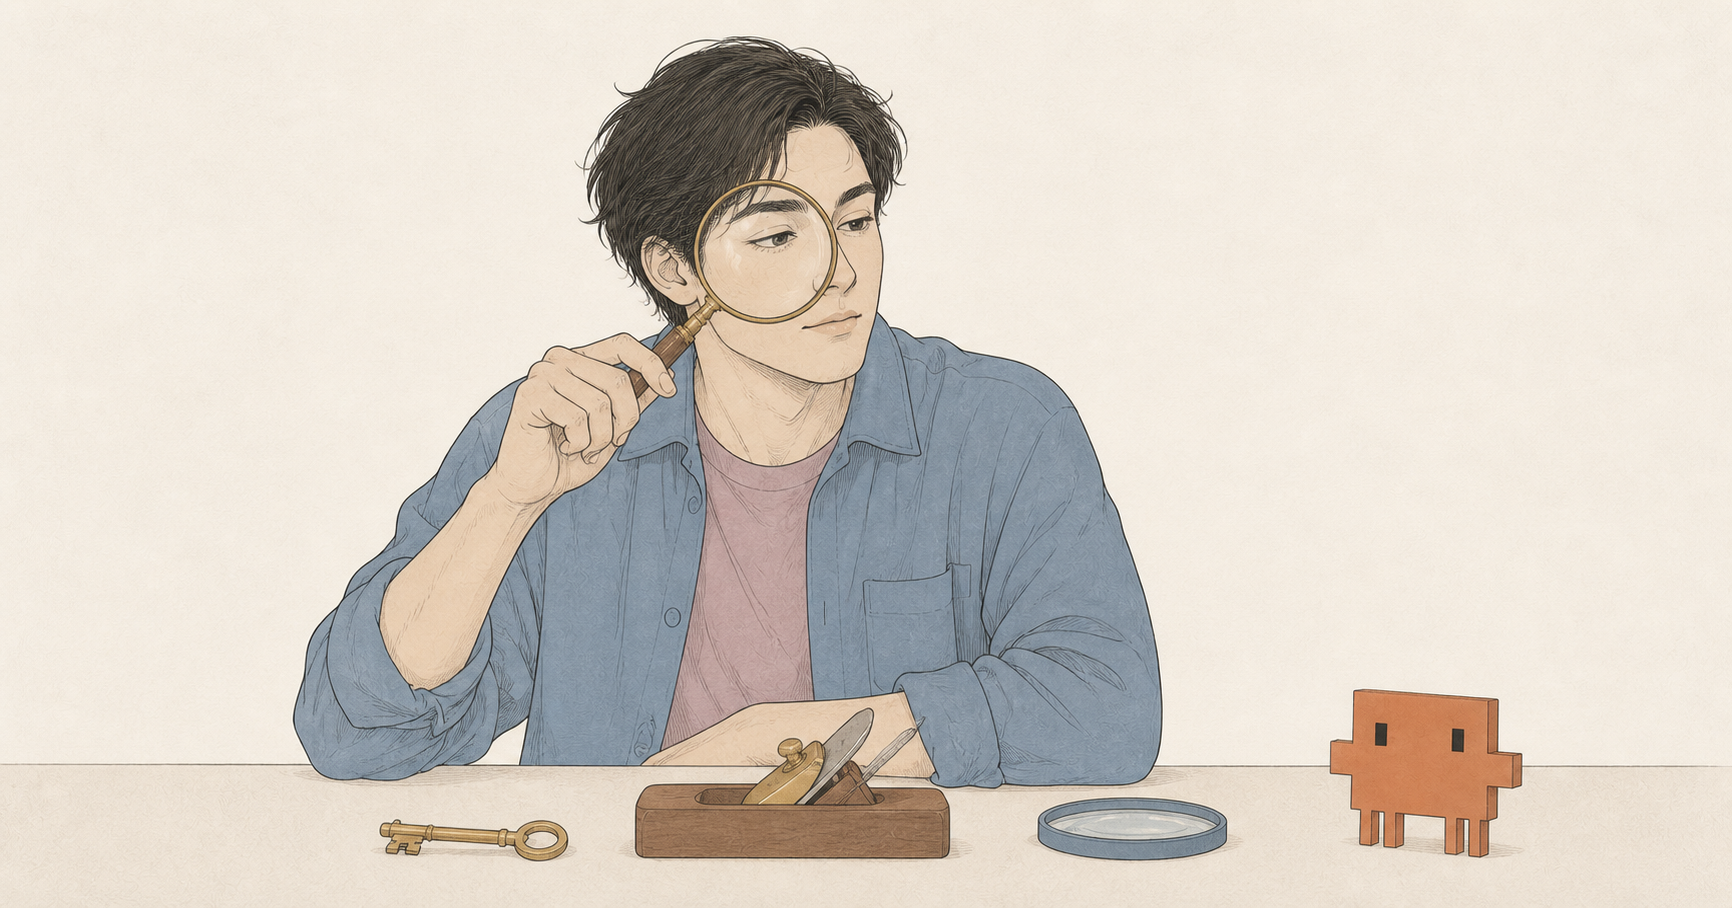
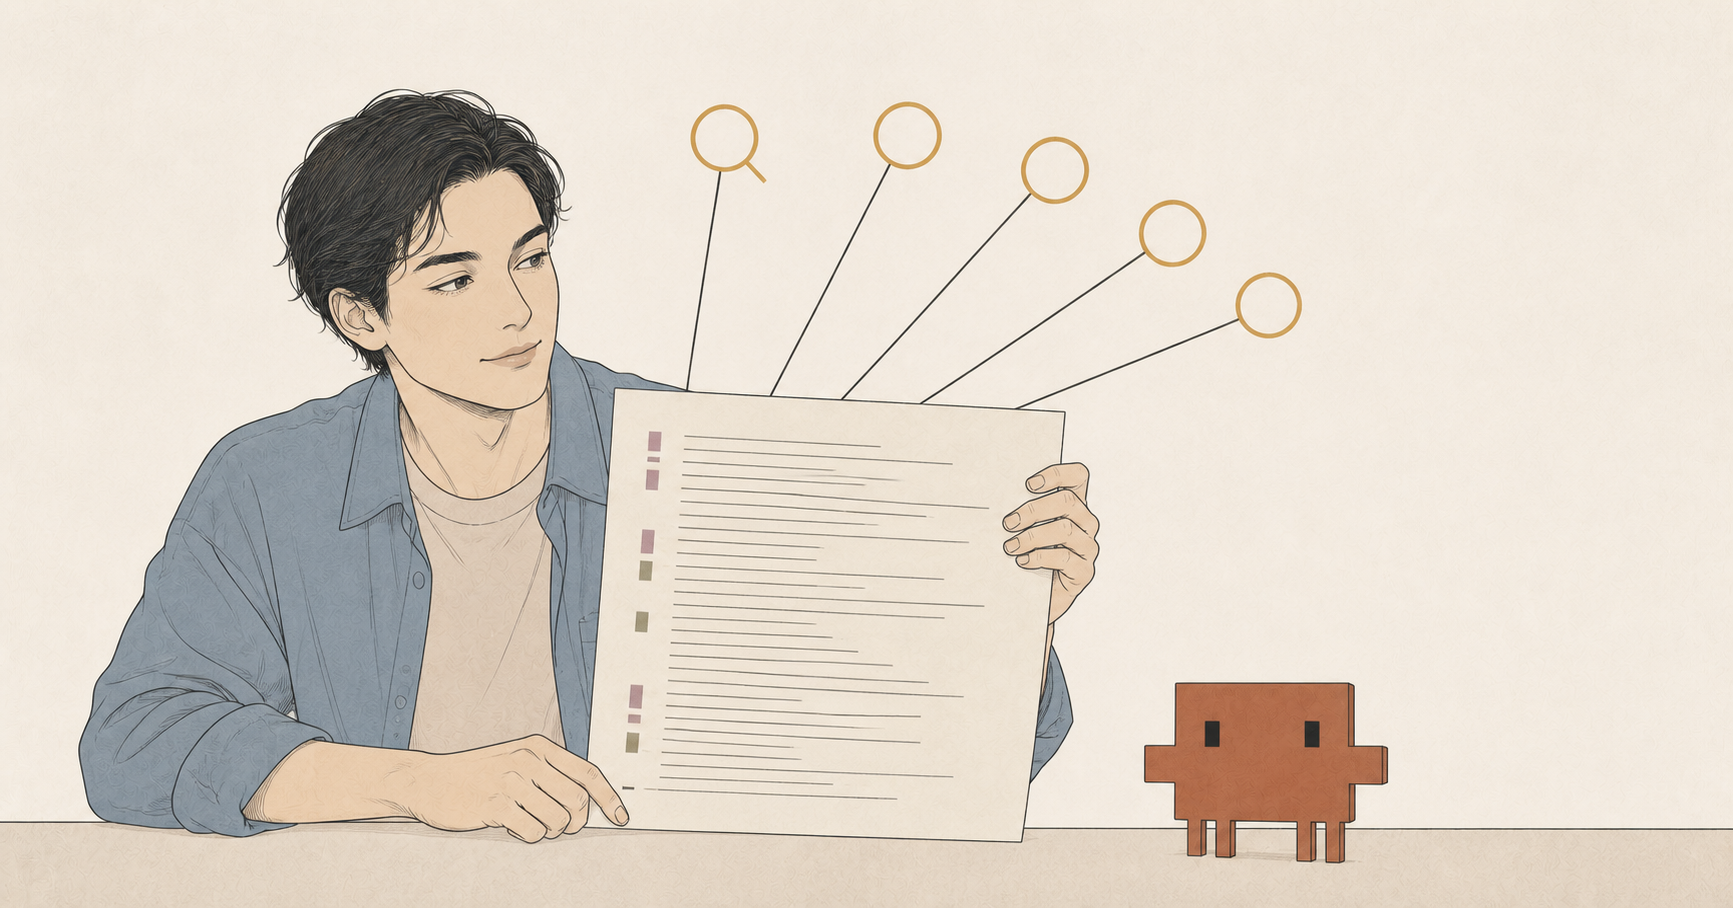
記事追加: Claude Code のレビュー系コマンド 4 つの使い分け
/code-review 実装解説から比較セクションを分離し、相互リンクを追加。
アイキャッチを 2 記事で入れ替え。

diff --git a/articles/claude-code-review-commands.md b/articles/claude-code-review-commands.md
@@ -1,0 +1,109 @@
+---
+title: "Claude Code のレビュー系コマンド 4 つの使い分け"
+emoji: "🐸"
+type: "tech"
+topics: ["claudecode", "ai", "codereview", "codex"]
+published: true
+---
+
+![Claude Code のレビュー系コマンド 4 つの使い分け](/images/claude-code-review-commands/eyecatch.png)
+
+Claude Code には、差分を読んで指摘を返すコマンドが複数あります。組み込みの `/code-review` と `/simplify`、同梱プラグインの `/security-review`、openai-codex プラグインの `/codex:review` です。
+
+どれも「コードを見てくれるコマンド」に見えるので、最初はどれを打てばいいのか分かりませんでした。そこで Claude Code 2.1.251 の本体と各プラグインの定義から、それぞれが実際に何を探して何を返すのかを読んで整理しました。
+
+結論から書くと、目的で引けます。
+
+- バグを見つけたい → `/code-review`
+- 動きを変えずにコードを綺麗にしたい（重複・冗長・非効率）→ `/simplify`
+- 脆弱性が心配 → `/security-review`
+- Claude 自身の見落としが心配 → `/codex:review`
+
+差分を読む点は同じでも、探すものと出口（報告で止まるか、修正まで当てるか）が違います。以下、1 つずつ見ていきます。
+
+## 基準になる `/code-review`
+
+まず基準として `/code-review` を押さえておきます。既定のレビュー対象は現在の差分で、内部では `git diff @{upstream}...HEAD` と `git diff HEAD` の両方を読むため、コミット済みと未コミットの変更がどちらも対象になります。引数で PR 番号・ブランチ・パスも渡せます。
+
+探すのは実行時の正確性バグが主で、クリーンアップ（再利用・簡素化・効率・抽象度）と CLAUDE.md 規約違反が副次的に付いてきます。結果は構造化された一覧としてホストの UI に返り、既定では報告のみで、修正は `--fix` を付けたときだけ適用されます。
+
+effort レベル（`low` / `medium` / `high` / `xhigh` / `max` / `ultra`）で探索の角度数・候補数・検証の有無・報告件数の上限が変わります。この内部構造は別記事に分けて書きました。
+
+https://zenn.dev/takna/articles/claude-code-code-review-effort
+
+## `/simplify` との違い
+
+同じ差分を読みますが、探すものと出口が逆です。`/code-review` は「バグを見つけて報告する」、`/simplify` は「品質の粗を見つけてその場で直す」。`/simplify` のプロンプトには「正確性のバグは探すな、それは `/code-review` の仕事だ」と明記されています。
+
+| | `/code-review` | `/simplify` |
+|---|---|---|
+| 探すもの | 実行時の正確性バグ（+ 副次的にクリーンアップ） | 再利用・簡素化・効率・抽象度の 4 観点のみ |
+| effort レベル | あり（low〜max、ultra） | なし（一段階） |
+| 探索の構造 | レベル依存で 8〜10 角度 + 検証パス | 4 エージェント並列固定、検証パスなし |
+| 出口 | 報告のみ（`--fix` を付けたときだけ適用） | 既定で修正まで適用する |
+| 振る舞いの変更 | しない | しない（挙動が変わる修正はスキップして報告） |
+
+`/simplify` の 4 観点は、`/code-review` のクリーンアップ角度と同じ定義を共有しています。
+
+- **再利用**: すでにある共通処理の再実装。共有・ユーティリティモジュールと変更箇所の隣接ファイルを grep し、呼ぶべき既存ヘルパー名まで挙げる
+- **簡素化**: 冗長・導出可能な状態、微妙に変えたコピペ、深いネスト、残った死んだコード
+- **効率**: 重複計算・反復 I/O、並列化できるのに直列な処理、起動やホットパスに足された同期処理。クロージャや環境をキャプチャした長命オブジェクト（囲みスコープ全体を延命させるメモリリーク）も対象
+- **抽象度**: 変更が適切な深さで入っているか。共通基盤に特例を積む修正は「浅すぎる」サインとして扱い、機構自体の一般化を促す
+
+つまり `/simplify` は、`/code-review` の指摘のうち後ろ半分だけを取り出し、報告で止めずに修正まで走らせたものです。逆に `/code-review --fix` はバグ修正まで含めて適用するので、両者は「対象が違う `--fix` 付きレビュー」と捉えると混乱しません。
+
+`/simplify` も引数で対象を渡せます（`/simplify [<target>]`）。承認を挟まずに修正を当てるコマンドなので、実行前にコミット済みか `git stash` 済みかを確かめておくのが安全です。
+
+## `/security-review` との違い
+
+`/security-review` は同梱プラグインのコマンドで、現在のブランチの未マージ変更をセキュリティ観点だけで監査します。git リポジトリ内でのみ動きます。
+
+| | `/code-review` | `/security-review` |
+|---|---|---|
+| 観点 | 実行時の正確性・保守性 | 脆弱性（注入・認証認可・機密漏洩・安全でない既定値など） |
+| 出力 | 構造化された指摘一覧（UI がレンダリング） | Markdown レポート本文のみ |
+| 件数方針 | effort に応じて再現率と精度を切り替える | HIGH / MEDIUM に絞り、確信度スコアを付けて誤検出を抑える |
+| 修正の適用 | `--fix` で可能 | なし（報告のみ） |
+
+`/code-review` の探索角度にも SQL インジェクションなどの言語別の落とし穴は含まれますが、認可の抜け・秘密情報の取り扱い・依存関係のリスクまでは体系的に見ません。外部に公開する変更では、両方を通しておくのが安全側です。
+
+## `/codex:review` との違い
+
+openai-codex プラグインのコマンドで、Codex CLI 内蔵のレビュアーに差分を読ませます。中身は Claude ではなく GPT-5 系の Codex モデルなので、位置づけは「別モデルによるセカンドオピニオン」です。Codex CLI（`npm install -g @openai/codex`）と `/codex:setup` が前提になります。
+
+| | `/code-review` | `/codex:review` |
+|---|---|---|
+| レビューするモデル | Claude（このセッション内） | Codex CLI 内蔵レビュアー（別プロセス・別ベンダー） |
+| 対象 | 差分 / PR 番号 / ブランチ / パス | 作業ツリー（未追跡ファイル込み）または `--base <ref>` のブランチ差分 |
+| 粒度の調整 | effort レベル 5 段階 | なし（`--scope auto\|working-tree\|branch` のみ） |
+| 観点の指定 | 対象引数で絞る | 不可。フォーカス文を渡すとエラーになり `/codex:adversarial-review` に誘導される |
+| 出力 | 構造化された指摘一覧 | Codex の出力をそのまま逐語で返す（要約・加筆をしない規約） |
+| 修正の適用 | `--fix` で可能 | なし（review-only がコマンドの中核制約） |
+| 実行の待ち方 | セッション内で完了まで | `--wait` / `--background` を選択。指定しないと 1 回だけ聞かれ、1〜2 ファイル程度でなければバックグラウンドが推奨される |
+
+バックグラウンド実行はジョブとして管理され、`/codex:status` で進捗を、`/codex:result` で結果を取り出せます。`/codex:setup --enable-review-gate` を有効にすると、Claude が応答を終えるたびに自動でレビューを走らせるゲートになります。
+
+足す価値があるのは、同じモデルの見落としを潰したいときです。`/code-review high` を通したうえでバックグラウンドに投げておく、という重ね方が噛み合います。逆に「この観点で見て」という指定が要るなら `/codex:adversarial-review` を使います。
+
+## 実際の並べ方
+
+4 つを毎回全部通す必要はありません。変更の性質で足していくのが現実的です。
+
+| 変更の性質 | 打つもの |
+|---|---|
+| 日常のコミット前 | `/code-review low` か `medium` |
+| リファクタ直後、差分が汚い自覚がある | `/simplify` を先に当ててから `/code-review` |
+| マージ前・レビュー依頼前 | `/code-review high` |
+| 認証・課金・外部公開が絡む | `/code-review xhigh` + `/security-review` |
+| 判断を間違えたくない大きな変更 | 上に加えて `/codex:review --background` |
+
+`/simplify` を先に当てるのは、クリーンアップで差分が整理されたあとの方が、`/code-review` の角度がバグに集中できるためです。逆順にすると、直したそばから指摘が古くなります。
+
+## まとめ
+
+- `/code-review` はバグを探して報告する。修正まで当てるなら `--fix`
+- `/simplify` は品質の粗だけを探して、既定で修正まで当てる。バグは探さない
+- `/security-review` は脆弱性だけを見て、Markdown レポートで返す。修正はしない
+- `/codex:review` は別ベンダーのモデルに読ませるセカンドオピニオン。review-only で、観点の指定はできない
+
+どれも差分を読むところは同じなので、「何を探すか」と「修正まで当てるか」の 2 軸で覚えておくと選び間違えません。
